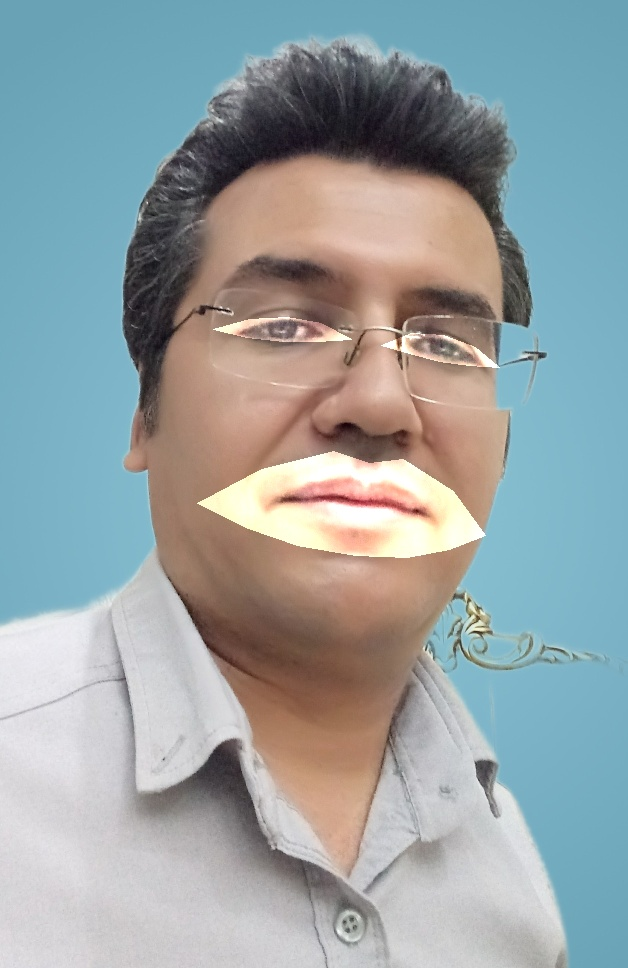
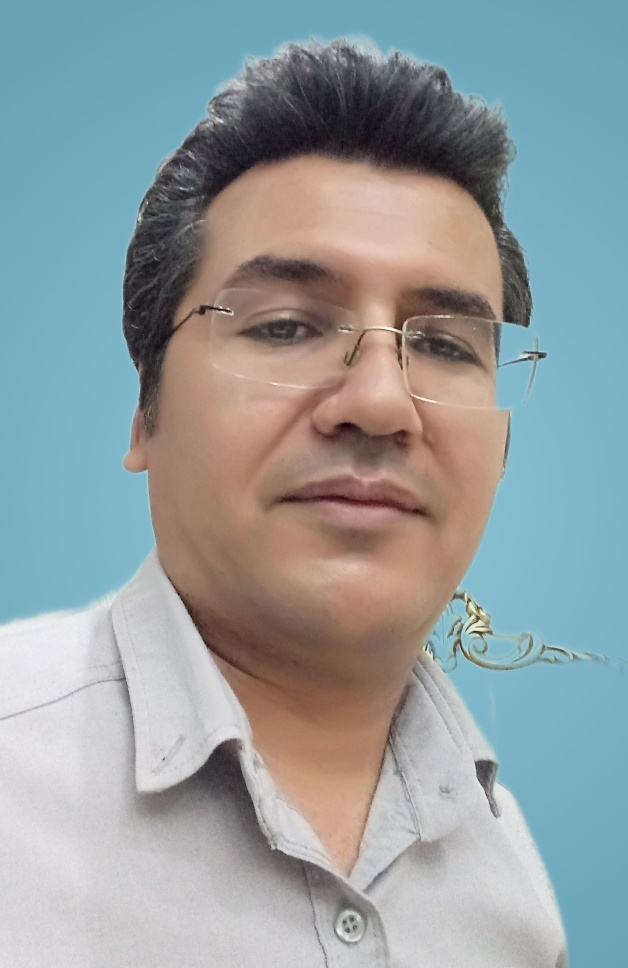
Assignment(24) filter on face

Changed region(s): [[0.3025, 0.4649, 0.7866, 0.5888], [0.3631, 0.3099, 0.5446, 0.3719], [0.6051, 0.3409, 0.7866, 0.4029]]

diff --git a/Assignment_24/TFLiteFaceAlignment.py b/Assignment_24/TFLiteFaceAlignment.py
@@ -8,11 +8,8 @@ import sys
 from CoordinateAlignment import CoordinateAlignmentModel
 
 def double_size_landmarks(landmarks, center_point):
-    new_landmarks = []
-    for landmark in landmarks:
-        diff = np.array(landmark) - np.array(center_point)
-        new_landmark = center_point + 2 * diff
-        new_landmarks.append(new_landmark)
+    diff = landmarks - center_point
+    new_landmarks = center_point + 2 * diff
     return new_landmarks
 
 if __name__ == '__main__':
@@ -21,10 +18,9 @@ if __name__ == '__main__':
 
     img = cv2.imread('input/20220420_1947030.jpg')
     img = cv2.resize(img, (0, 0), fx=0.5, fy=0.5)
-    rows = img.shape[0]
-    cols = img.shape[1]
-    mask = np.zeros((rows, cols, 3), dtype='uint8')
+    rows, cols, _ = img.shape
 
+    mask = np.zeros((rows, cols), dtype='uint8')
     boxes, scores = fd.inference(img)
     for pred in fa.get_landmarks(img, boxes):
         pred_int = np.round(pred).astype(np.int32)
@@ -32,20 +28,39 @@ if __name__ == '__main__':
         landmark_right_eye = np.array([[tuple(pred_int[i]) for i in [89, 90, 87, 91, 93, 96, 94, 95]]])
         landmark_lips = np.array([[tuple(pred_int[i]) for i in [52, 55, 56, 53, 59, 58, 61, 68, 67, 71, 63, 64]]])
         # print(landmark_left_eye)
-        landmark_left_eye = double_size_landmarks(landmark_left_eye, (283, 327))
-        landmark_right_eye = double_size_landmarks(landmark_right_eye, (441, 345))
-        landmark_lips = double_size_landmarks(landmark_lips, (363, 501))
+        enlarged_landmark_left_eye = double_size_landmarks(landmark_left_eye, (283, 327))
+        enlarged_landmark_right_eye = double_size_landmarks(landmark_right_eye, (441, 345))
+        enlarged_landmark_lips = double_size_landmarks(landmark_lips, (363, 501))
+        # print(enlarged_landmark_left_eye)
 
-        cv2.drawContours(mask, landmark_left_eye, -1, (255, 255, 255), -1)
-        cv2.drawContours(mask, landmark_right_eye, -1, (255, 255, 255), -1)
-        cv2.drawContours(mask, landmark_lips, -1, (255, 255, 255), -1)
+        # cv2.drawContours(mask, enlarged_landmark_left_eye, -1, (255, 255, 255), -1)
+        # cv2.drawContours(mask, enlarged_landmark_right_eye, -1, (255, 255, 255), -1)
+        # cv2.drawContours(mask, enlarged_landmark_lips, -1, (255, 255, 255), -1)
+
+        # Find the homography matrix that maps the original landmarks to the enlarged ones
+        H_L_eye, _ = cv2.findHomography(landmark_left_eye, enlarged_landmark_left_eye)
+        H_R_eye, _ = cv2.findHomography(landmark_right_eye, enlarged_landmark_right_eye)
+        H_lips, _ = cv2.findHomography(landmark_lips, enlarged_landmark_lips)
+        # Warp the image using the homography matrix
+        warped_L = cv2.warpPerspective(img, H_L_eye, (cols, rows))
+        warped_R = cv2.warpPerspective(img, H_R_eye, (cols, rows))
+        warped_lips = cv2.warpPerspective(img, H_lips, (cols, rows))
+
+        cv2.drawContours(mask, [enlarged_landmark_left_eye], -1, 255, -1)
+        cv2.drawContours(mask, [enlarged_landmark_right_eye], -1, 255, -1)
+        cv2.drawContours(mask, [enlarged_landmark_lips], -1, 255, -1)
+
+        # Combine the original image and the warped image using the mask
+        result = cv2.bitwise_and(img, img, mask=cv2.bitwise_not(mask))
+        result = cv2.bitwise_or(result, warped_lips, mask=mask)
+
         # print(landmark_left_eye)
         # for index, p in enumerate(np.round(pred).astype(np.int32)):
         #     print(p, index)
         #     cv2.circle(img, tuple(p), 1, (125, 255, 125), 1, cv2.LINE_AA)
         #     cv2.putText(img, str(index), p, cv2.FONT_HERSHEY_SIMPLEX, 0.5, (0, 0, 255), 1)
-    mask = mask // 255
-    result = img * mask
+    result = result // 255
+    result = img * result
     final_img = cv2.add(img, result)
 
     cv2.imwrite('output/result.jpg', final_img)

diff --git a/Assignment_24/test.py b/Assignment_24/test.py
@@ -1,10 +1,71 @@
-import cv2
+# import cv2
+# import numpy as np
+
+# img = np.zeros((500, 500), dtype='uint8')
+
+# points = np.array([[100, 50], [300, 70], [350, 280], [120, 250]])
+# cv2.drawContours(img, [points], -1, (255, 255, 255), -1)
+
+# cv2.imshow('output', img)
+# cv2.waitKey()
+
+
 import numpy as np
+import cv2
+import tensorflow as tf
+from functools import partial
+import time
+from TFLiteFaceDetector import UltraLightFaceDetecion
+import sys
+from CoordinateAlignment import CoordinateAlignmentModel
 
-img = np.zeros((500, 500), dtype='uint8')
+def double_size_landmarks(landmarks, center_point):
+    diff = landmarks - center_point
+    new_landmarks = center_point + 2 * diff
+    return new_landmarks
 
-points = np.array([[100, 50], [300, 70], [350, 280], [120, 250]])
-cv2.drawContours(img, [points], -1, (255, 255, 255), -1)
+if __name__ == '__main__':
+    fd = UltraLightFaceDetecion("weights/RFB-320.tflite", conf_threshold=0.88)
+    fa = CoordinateAlignmentModel("weights/coor_2d106.tflite")
 
-cv2.imshow('output', img)
-cv2.waitKey()
+    img = cv2.imread('input/20220420_1947030.jpg')
+    img = cv2.resize(img, (0, 0), fx=0.5, fy=0.5)
+    rows, cols, _ = img.shape
+
+    mask = np.zeros((rows, cols), dtype='uint8')
+    boxes, scores = fd.inference(img)
+    for pred in fa.get_landmarks(img, boxes):
+        pred_int = np.round(pred).astype(np.int32)
+        # Define the landmarks of the eyes and lips as lists of indices
+        landmark_left_eye = [35, 36, 33, 37, 39, 42, 40, 41]
+        landmark_right_eye = [89, 90, 87, 91, 93, 96, 94, 95]
+        landmark_lips = [52, 55, 56, 53, 59, 58, 61, 68, 67, 71, 63, 64]
+        # Define the center points of the eyes and lips as tuples of coordinates
+        center_point_left_eye = (283, 327)
+        center_point_right_eye = (441, 345)
+        center_point_lips = (363, 501)
+        # Loop over the landmarks and center points
+        for landmark, center_point in zip([landmark_left_eye, landmark_right_eye, landmark_lips], [center_point_left_eye,
+                                                                                                   center_point_right_eye,
+                                                                                                   center_point_lips]):
+            # Convert the landmark indices to coordinates
+            landmark_coords = np.array([[tuple(pred_int[i]) for i in landmark]])
+            # Enlarge the landmark coordinates using the double_size_landmarks function
+            enlarged_landmark_coords = double_size_landmarks(landmark_coords, center_point).astype(np.int32)
+            # Fill the enlarged landmark with white color using cv2.fillPoly
+            cv2.fillPoly(mask, [enlarged_landmark_coords], (255))
+            # Find the homography matrix that maps the original landmark to the enlarged one
+            H_landmark, _ = cv2.findHomography(landmark_coords, enlarged_landmark_coords)
+            # Warp the image using the homography matrix
+            warped_landmark = cv2.warpPerspective(img, H_landmark, (cols, rows))
+            # Combine the original image and the warped image using the mask
+            result = cv2.bitwise_and(img, img, mask=cv2.bitwise_not(mask))
+            result = cv2.bitwise_or(result, warped_landmark, mask=mask)
+
+        # Blend the original image and the result image using cv2.addWeighted
+        final_img = cv2.addWeighted(img, 0.3, result, 0.7, 0)
+        # final_img = cv2.add(img, result)
+
+        cv2.imwrite('output/result.jpg', final_img)
+        cv2.imshow("result", result)
+        cv2.waitKey()
